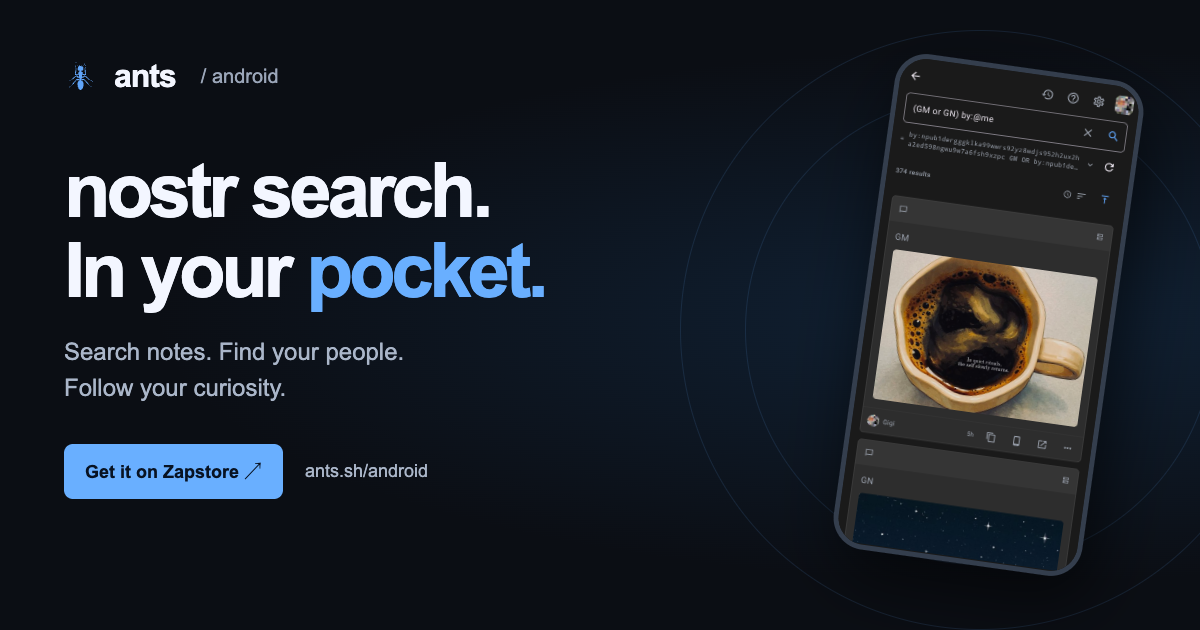
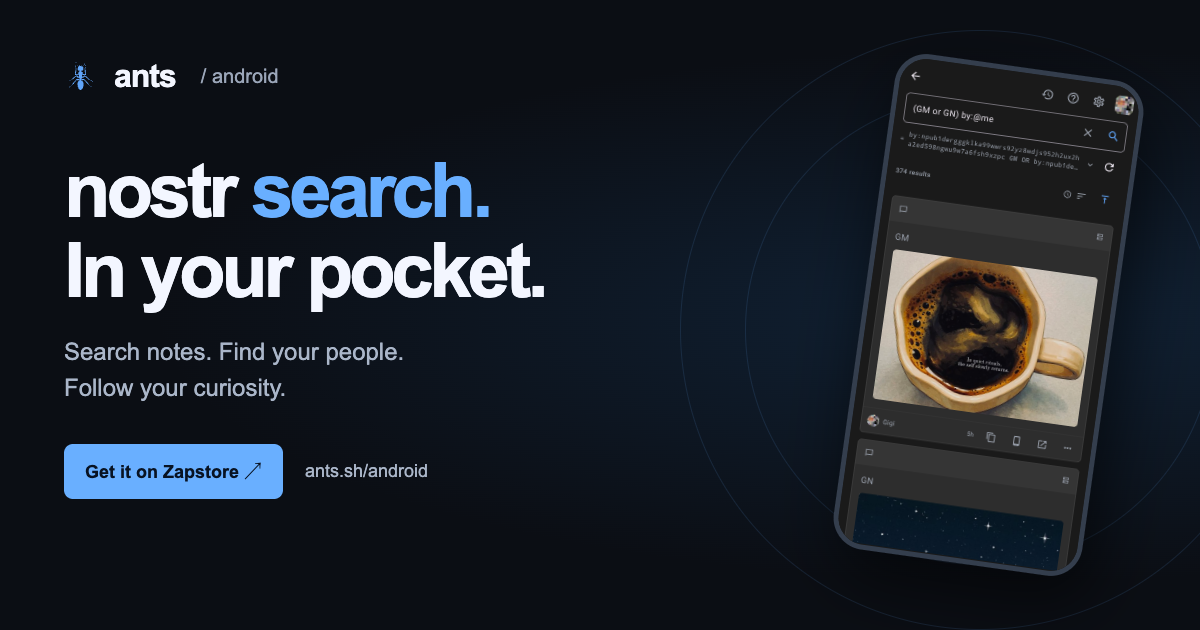
style: emphasize search in Android social preview

Changed region(s): [[0.2467, 0.3921, 0.4625, 0.5127], [0.2158, 0.2413, 0.4008, 0.3619]]

diff --git a/src/app/android/page.tsx b/src/app/android/page.tsx
@@ -18,7 +18,7 @@ export const metadata: Metadata = {
     url: "/android",
     images: [
       {
-        url: "/android/og-clean.png",
+        url: "/android/og-clean.png?v=2",
         width: 1200,
         height: 630,
         alt: "ants for Android — nostr search. In your pocket. Search notes, find your people, and follow your curiosity.",
@@ -31,7 +31,7 @@ export const metadata: Metadata = {
     description,
     images: [
       {
-        url: "/android/og-clean.png",
+        url: "/android/og-clean.png?v=2",
         alt: "ants for Android — nostr search. In your pocket",
       },
     ],
